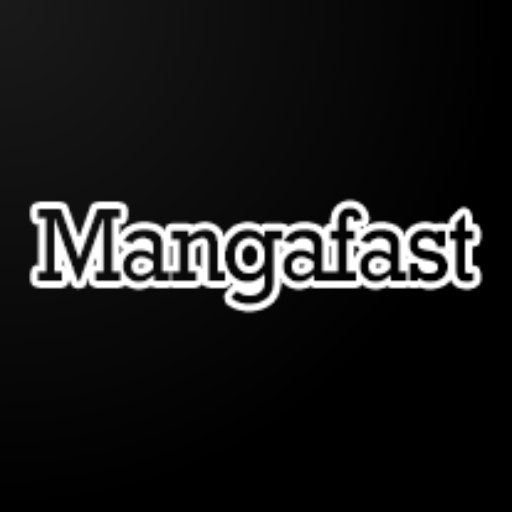
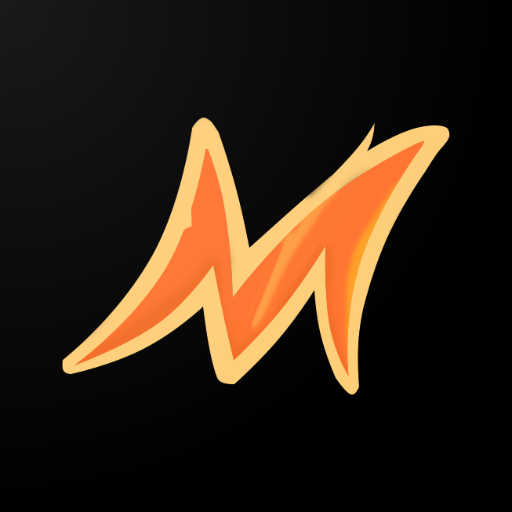
Fix #5060 and #5040 (#5063)
* Adapted file to mangareader.cc

* Removed MangaWindow.Club because is no more available.
Addedo MangaReader.cc

* Version code Change

* Updating Mangafast ic_launcher

* Fix #5060

Changed region(s): [[0.0312, 0.2188, 0.9688, 0.7812]]

diff --git a/src/all/paprika/src/eu/kanade/tachiyomi/extension/all/paprika/PaprikaAlt.kt b/src/all/paprika/src/eu/kanade/tachiyomi/extension/all/paprika/PaprikaAlt.kt
@@ -21,13 +21,13 @@ abstract class PaprikaAlt(
     override fun popularMangaFromElement(element: Element): SManga {
         // Log.d("Paprika", "processing popular element")
         return SManga.create().apply {
-            element.select("a:has(h2)").let {
+            element.select("a:has(h3)").let {
                 setUrlWithoutDomain(it.attr("href"))
                 title = it.text()
                 // Log.d("Paprika", "manga url: $url")
                 // Log.d("Paprika", "manga title: $title")
             }
-            thumbnail_url = element.select("img").attr("abs:src")
+            thumbnail_url = element.select("img").attr("src")
             // Log.d("Paprika", "manga thumb: $thumbnail_url")
         }
     }
@@ -56,7 +56,7 @@ abstract class PaprikaAlt(
                 it.text().apply {
                     when {
                         this.startsWith("Author") -> author = this.substringAfter(":").trim()
-                        this.startsWith("Artist") -> artist = this.substringAfter(":").trim()
+                        this.startsWith("Artist") -> artist = this.substringAfter(":").trim().replace(";", ",")
                         this.startsWith("Genre") -> genre = this.substringAfter(":").trim().replace(";", ",")
                         this.startsWith("Status") -> status = this.substringAfter(":").trim().toStatus()
                     }

diff --git a/src/all/paprika/src/eu/kanade/tachiyomi/extension/all/paprika/PaprikaFactory.kt b/src/all/paprika/src/eu/kanade/tachiyomi/extension/all/paprika/PaprikaFactory.kt
@@ -8,10 +8,11 @@ class PaprikaFactory : SourceFactory {
         MangazukiXyz(),
         MangaTensei(),
         MangaNelo(),
-        MangaWindowClub(),
+        // MangaWindowClub(),
         MangaDogs(),
         ReadMangaFox(),
-        MangaStreamXyz()
+        MangaStreamXyz(),
+        MangaReader()
     )
 }
 
@@ -20,5 +21,6 @@ class ReadMangaFox : Paprika("ReadMangaFox", "http://readmangafox.xyz", "en")
 class MangazukiXyz : Paprika("MangaZuki.xyz", "http://mangazuki.xyz", "en")
 class MangaTensei : Paprika("MangaTensei", "https://www.mangatensei.com", "en")
 class MangaNelo : Paprika("MangaNelos.com", "http://manganelos.com", "en")
-class MangaWindowClub : PaprikaAlt("MangaWindow.club", "https://mangawindow.club", "en")
+// class MangaWindowClub : PaprikaAlt("MangaWindow.club", "https://mangawindow.club", "en")
 class MangaDogs : Paprika("MangaDogs.fun", "http://mangadogs.fun", "en")
+class MangaReader : PaprikaAlt("MangaReader.cc", "http://mangareader.cc/", "en")

diff --git a/src/en/mangafast/src/eu/kanade/tachiyomi/extension/en/mangafast/MangaFast.kt b/src/en/mangafast/src/eu/kanade/tachiyomi/extension/en/mangafast/MangaFast.kt
@@ -40,7 +40,7 @@ class MangaFast : ParsedHttpSource() {
     override fun latestUpdatesFromElement(element: Element) = SManga.create().apply {
         setUrlWithoutDomain(element.select("a").attr("href"))
         title = element.select("h3").text().trim()
-        thumbnail_url = element.select("img").attr("abs:data-src")
+        thumbnail_url = element.select("img").attr("abs:data-src").substringBeforeLast("resize")
     }
 
     override fun latestUpdatesNextPageSelector() = "a.next"
